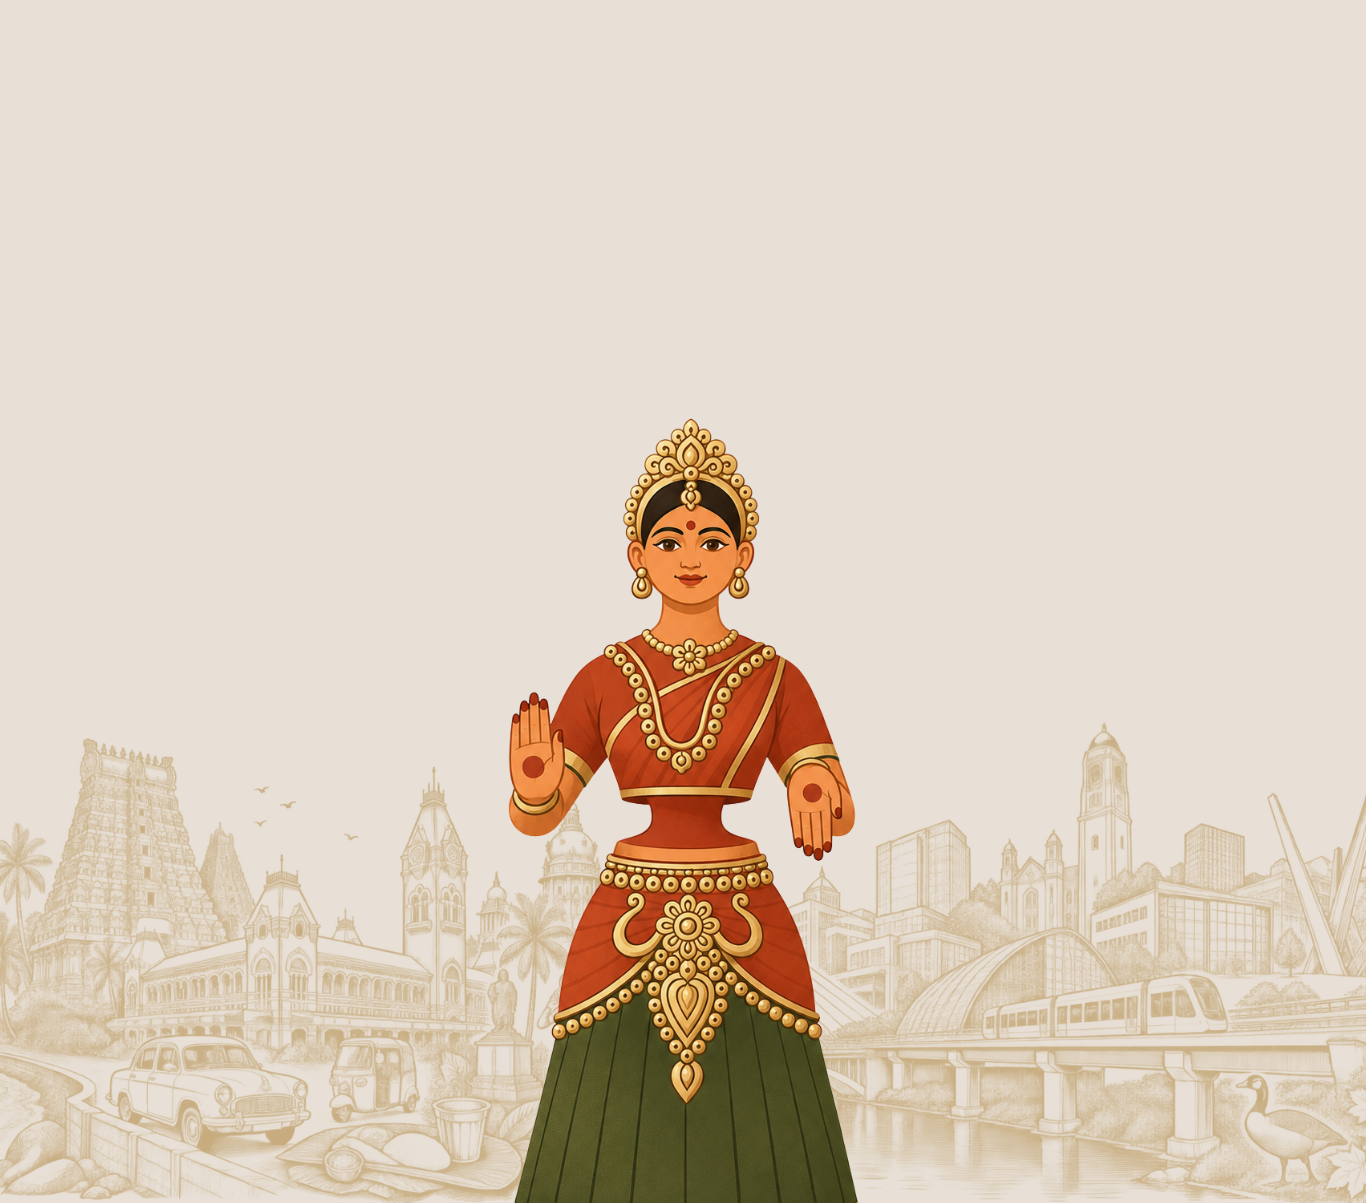
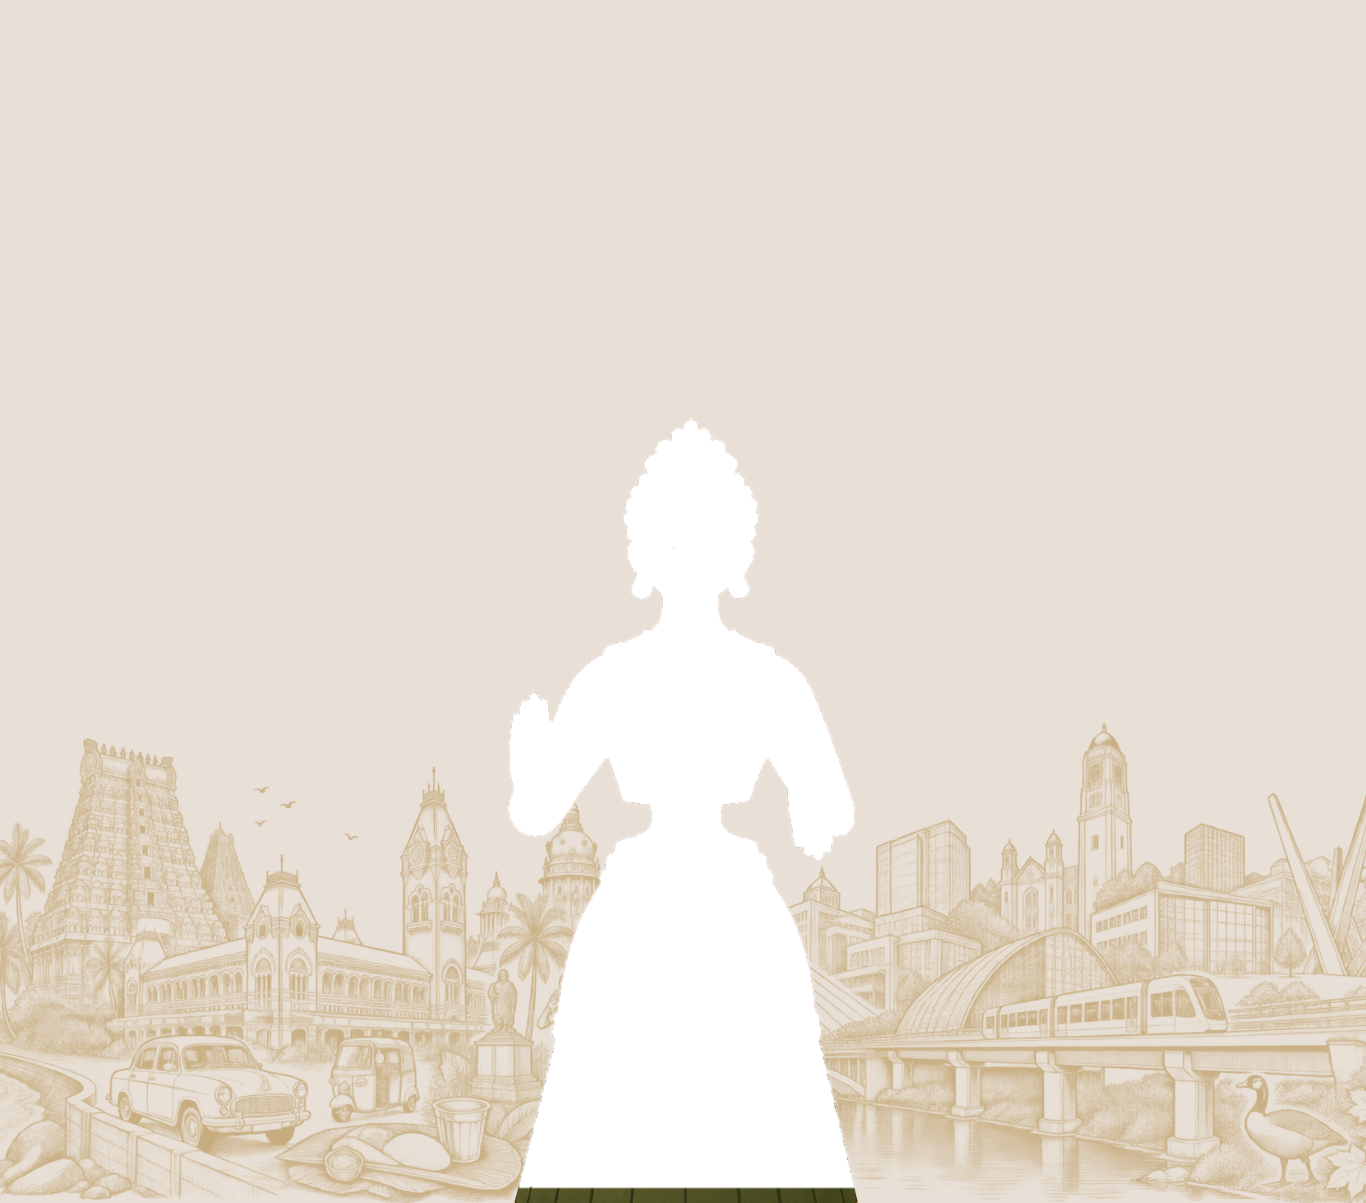
Fix double-doll ghosting on hero and About page wobble animations
Client feedback: "why do we have 2 dolls" — both wobble overlays were
positioned pixel-perfect over a copy of the same doll still baked into the
base image, so rotating the overlay swung it away from the identical
static figure underneath, exposing it.

Fix, same technique both places: cut the doll's exact silhouette out of the
base image as a real transparent hole (GrabCut mask for the hero dancer,
freshly GrabCut on the About polaroid for its doll — the previous About
overlay was a plain rectangular crop, which had the identical bug). At rest
the hole and the animated cutout are pixel-identical to the original art;
wobbling now reveals a small sliver of matching background instead of a
second static doll. Also trimmed the wobble angle 3.5°→2.5° on both to keep
that sliver minimal.

Changed region(s): [[0.369, 0.3383, 0.6457, 1.0]]

diff --git a/src/components/homepage/HomeHero.tsx b/src/components/homepage/HomeHero.tsx
@@ -46,16 +46,27 @@ import ScallopDivider from "./ScallopDivider";
  * She's illustrated directly into the banner PNG, blended into the skyline
  * linework behind her, not a separate layer — so animating her meant
  * cutting her out first. A rectangular crop wasn't enough here (unlike the
- * doll polaroid on the About page): the skyline art runs continuously
- * behind her, so a rectangular copy would visibly rotate a chunk of
- * background along with her. Color-threshold cutout didn't work either —
- * her gold jewellery and the tan skyline linework are nearly the same hue.
- * What worked: OpenCV GrabCut (graph-cut segmentation seeded with her
- * bounding box), which separates her by spatial coherence rather than
- * color alone — `hero-dancer-desktop.png` / `-mobile.png` are true
- * cutouts with real alpha transparency, positioned to sit pixel-for-pixel
- * over her in the base banner. Only this layer gets the wobble; the banner
- * underneath, skyline included, stays completely still.
+ * doll polaroid on the About page, originally): the skyline art runs
+ * continuously behind her, so a rectangular copy would visibly rotate a
+ * chunk of background along with her. Color-threshold cutout didn't work
+ * either — her gold jewellery and the tan skyline linework are nearly the
+ * same hue. What worked: OpenCV GrabCut (graph-cut segmentation seeded with
+ * her bounding box), which separates her by spatial coherence rather than
+ * color alone — `hero-dancer-desktop.png` / `-mobile.png` are true cutouts
+ * with real alpha transparency.
+ *
+ * Second round, same day — client: "we still see the doll behind the
+ * toggle... why do we have 2 dolls." The cutout was positioned pixel-for-
+ * pixel over the SAME dancer still baked into the base banner, so rotating
+ * it swung her silhouette away from the identical figure underneath,
+ * exposing it. Fix: `homepage-banner-desktop.png` / `-mobile.png` now have
+ * that exact silhouette cut out as a real transparent hole (same GrabCut
+ * mask, subtracted from the banner's alpha channel), so the base banner no
+ * longer contains her at all — only the animated cutout does. At rest the
+ * two are pixel-identical to the original art; wobbling exposes a sliver of
+ * the page's own cream background (close to the banner's tone) on one side
+ * rather than a second, static dancer. Wobble angle trimmed 3.5°→2.5° at
+ * the same time to keep that sliver small.
  */
 const HomeHero = () => {
   const [mounted, setMounted] = useState(false);
@@ -69,8 +80,8 @@ const HomeHero = () => {
     <section className="relative w-full md:overflow-hidden" id="home">
       <style>{`
         @keyframes doll-wobble {
-          0%, 100% { transform: rotate(-3.5deg); }
-          50% { transform: rotate(3.5deg); }
+          0%, 100% { transform: rotate(-2.5deg); }
+          50% { transform: rotate(2.5deg); }
         }
         .doll-wobble {
           animation: doll-wobble 2.4s ease-in-out infinite;

diff --git a/src/pages/AboutUs.tsx b/src/pages/AboutUs.tsx
@@ -233,16 +233,26 @@ const AboutUs = () => {
       {/* Client request, 2026-09-23: "make the doll moving like a toy, like
           Thanjavur dancing doll" — the Thanjavur Thalaiyatti Bommai in the
           centre polaroid is baked into the flat collage PNG, so it can't be
-          animated on its own. Instead, the exact same crop of just that
-          polaroid (measured by scanning for the background colour on all
-          four sides — left/right/top/bottom edges, both crops) sits as a
-          second image directly on top of it, pixel-identical when still, and
-          only THIS copy gets the rock/wobble animation real Thanjavur dolls
-          do — the base collage underneath is untouched. */}
+          animated on its own.
+          Revised same day — client: "we still see the doll behind the
+          toggle... why do we have 2 dolls." The first pass used a plain
+          rectangular crop of the polaroid as the moving layer, pixel-identical
+          to the same rectangle in the base collage when still — but
+          rotating a rectangle swings its corners away from that identical
+          rectangle underneath, exposing the still doll baked into the base
+          image behind it. Fixed the same way as the hero dancer: GrabCut
+          (graph-cut segmentation seeded on the doll's bounding box, easier
+          here since the polaroid's backdrop is a soft blurred curtain, not
+          detailed art) produced a true alpha cutout of just her silhouette,
+          which is what `spaceDollDesktop`/`-mobile` are now. That same
+          silhouette was then cut out of the base collage PNGs as a real
+          transparent hole — sized and positioned identically to the cutout,
+          so at rest the two are pixel-identical and only the animated
+          cutout is ever visible. */}
       <style>{`
         @keyframes doll-wobble {
-          0%, 100% { transform: rotate(-3.5deg); }
-          50% { transform: rotate(3.5deg); }
+          0%, 100% { transform: rotate(-2.5deg); }
+          50% { transform: rotate(2.5deg); }
         }
         .doll-wobble {
           animation: doll-wobble 2.4s ease-in-out infinite;
